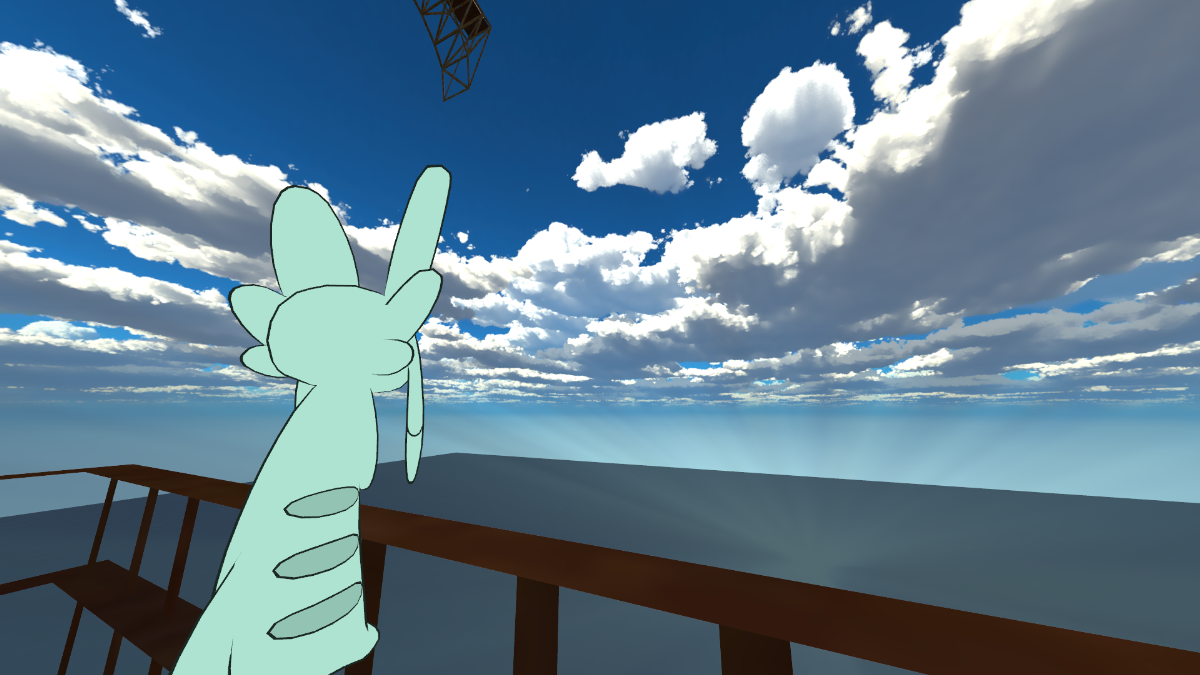
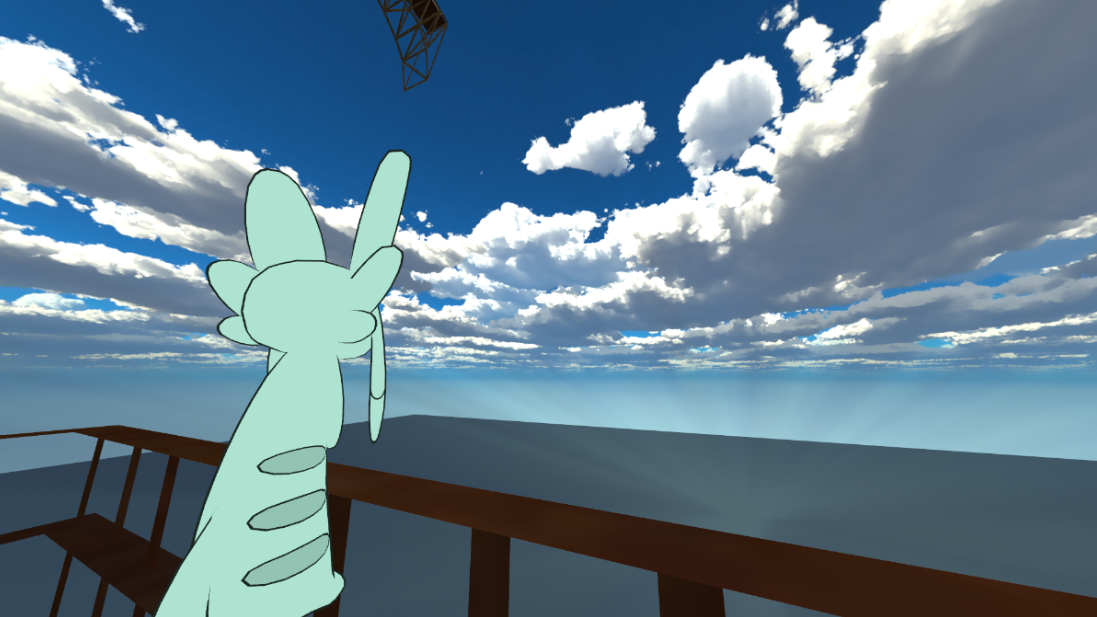
画像サイズ修正

diff --git a/app/blog/yurarara.md b/app/blog/yurarara.md
@@ -2,7 +2,7 @@
 title: "自己紹介2"
 image: "/yurarara/3.png"
 author: "yurarara"
-date: "2025-05-27"
+date: "2025-05-29"
 ---
 
 # 初めまして！！
